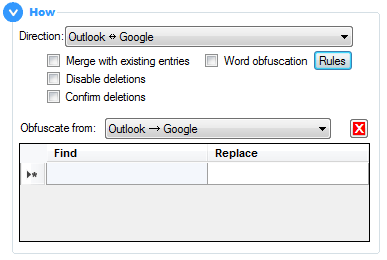
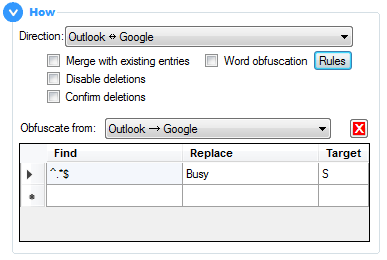
User guide updated for v2.11.0

diff --git a/guide/syncoptions.md b/guide/syncoptions.md
@@ -3,114 +3,19 @@ layout: page
 title: User Guide | Settings | Sync Options
 previous: Google
 previous-url: google
-next: Application Behaviour
-next-url: appbehaviour
+next: Sync Options - How
+next-url: syncoptions-how
 ---
 {% include navigation-buttons.html %}
 
 # Sync Options
 
-This is where you configure **[how](#how), [when](#when)** and **[what](#what)** is synced between your calendars.
+This is where you configure **[how](syncoptions-how), [when](syncoptions-when)** and **[what](syncoptions-what)** is synced between your calendars.
 
 Changes to any of the settings will take immediate effect for the next synchronisation of calendars, but they won't persist between restarting OGCS unless the `Save` button is clicked.  
-Settings can also be exported as a backup, as well as imported between OGCS instances or installations.
+By clicking the down arrow next to the `Save` button, settings can also be **exported** as a backup, as well as **imported** between OGCS instances or installations.
 
 ![Sync Option Settings Screenshot](options.png)
-
-## How
-**Direction:** One-way sync from Outlook to Google, vice versa or two-way sync between both.
-
-These next configuration items help you manage what should happen with items that OGCS wants to remove.
-
-**Merge with existing entries:** It is recommended the target calendar is either empty or a new calendar created specifically for OGCS to sync with. This will make it easier for you to identify what has been synced etc. However, if you need to sync into a calendar that contains items not present in the source calendar and <font style="color:red">you want to keep those items</font>, check this option. 
-<div class="tip" style="margin-bottom:7px">:bulb: Such a situation may arise if you wish to sync your work Outlook calendar in to the default Google calendar, in order that Alexa or Google Home can announce your schedule for the day.</div>
-
-**Disable deletions:** This option is mostly a safeguard to be used by new users of OGCS. Once you have confidence the tool is working as expected, it should most likely be switched off.  
-**Confirm deletions:** Once deletions have been permitted, if you turn this option on, each deletion will prompt you to confirm or deny if this should be allowed. Again, this is to help you gain confidence you have the right configuration and OGCS is doing what you expect. It is not intended as a setting to have enabled long term.  
-If a sync causes every single item in the target calendar to be deleted before creating new items a-new, then there is always a "bulk deletion" warning, irrespective of the above settings. This is to provide a chance to confirm this is definitely expected and intended.  
-
-Specific attributes can be overridden in the target calendar:
-<img src="options-how-more.png" alt="More Options Screenshot" align="right" />
-<ul style="margin-top:-20px; margin-left:20px">
-  <li>Set privacy as private/public</li>
-  <li>Set availability as free/busy. Also tentative/out of office if syncing to Outlook</li>
-  <li>Set colour/category</li>
-</ul>
-For two-way sync, you can choose between Outlook and Google as to which is the target calendar, as well as whether to implement the override
-<ul style="margin-top:-20px; margin-left:20px">
-  <li>For all synced items; or</li>
-  <li>Only for items newly created by the sync tool</li>
-</ul>
-This second option means that the overridden attribute(s) will not sync back to the source calendar - otherwise, for example, _everything_ would end up private which is probably not what is intended.
-
-<img src="options-how-regex.png" alt="Word Obfuscation Screenshot" align="right" />
-**Word obfuscation:** Through the use of [regular expressions](https://www.regular-expressions.info), certain letters, words or phrases in the calendar item’s subject can be altered. By clicking the `Rules` button, you will see a table with `Find` and `Replace` columns; each row of regular expression rules would be applied in the order given using AND logic.
-<div class="tip">:memo: If two-way sync is configured, the obfuscation can only work in one direction - choose which from the drop down menu.</div>
-<br/>
-
-
-## When
-
-_Specify when to run a sync._
-
-**Date Range:** Select the number of days into the past and future within which calendar items should be synced. Date ranges greater than a year into the past or future are not allowed. 
-If a recurring appointment spans the date range specified, then it will also be synced. A minor exception to this are annual recurrence patterns - these will only sync if the month of the appointment falls into a month within the sync date range.
-<div class="tip" style="padding-bottom:8px">:bulb: To optimise the sync speed, the smaller the date range the better. Try to avoid a large date range combined with a frequent sync interval.</div>
-
-**Schedule:** The number of hours or minutes between automated syncs. 
-Setting it to zero turns off automated syncs, relying upon on-demand manual synchronisations.  
-15 minutes is the minimum sync frequency allowed, unless Push Sync is _also_ enabled in which case it is 120 minutes.  
-**Push Outlook Changes Immediately:** Have OGCS detect when calendar items are changed within Outlook and sync them within 2 minutes.
-
-
-## What
-
-### Attributes
-_Specify which appointment attributes to include in the sync._
-
-With all of these settings, when turned **on** they will only sync from that point forward. To sync them for all calendar items, press and hold `Shift` while clicking the `Sync` button. When turning sync **off** data already synced will not be removed - this will need to be done manually and is to protect against loss of data should two-way sync ever be configured.
-
-<img src="options-what.png" alt="What Screenshot" align="right" />
-
-**Location:** The location of the appointment.
-
-**Description:** The body of the appointment.
-<p style="margin-left:40px; margin-top:-20px"><b>One-way to Google:</b> If two-way sync is configured, optionally only sync the description to Google. Because Google has a maximum of 8kb held in plain text, it may cause information or formatting to be lost if subsequently synced back from Google.</p>
-
-**Attendees:** Sync the meeting attendees, using their email address as their unique identifier. A default maximum of 200 attendees can be synced, or specify a lower limit.
-<div class="tip">:warning:This option is likely to trigger the Outlook security popup. If you cannot prevent this through <a href="{{ site.github-repo }}/wiki/FAQs---Outlook-Security#how-can-i-stop-it-happening">standard settings</a>, it may be best to stop syncing attendees.</div>
-
-<p style="margin-left:40px;"><b>Cloak email in Google:</b> Google has been known to <a href="{{ site.github-repo }}/wiki/FAQs#why-are-my-meeting-attendees-getting-notified-of-updates-to-events-in-google">send out unsolicited notification emails</a> to attendees. To prevent this, the default is to “cloak” the attendee’s email address by appending <code class="highlighter-rouge">.ogcs</code>, thus making any such emails undeliverable.</p>
-
-<img src="ogcs-colour.gif" alt="Demo of syncing colours" align="right" width="50%"/>
-**Colours/categories:** The Outlook category and/or Google colour can be synced, which uses an algorithm to match to the closest equivalent colour. If there are multiple categories in Outlook with the same colour, or the wrong colour is being matched, there are more fine-grained controls under the `Mapping` button.
-
-<p style="margin-left:40px; margin-top:-20px">The <code class="highlighter-rouge">Test map</code> section shows how each colour will map to the other system. The table below can be used to specify alternative mappings from the default - eg the red Outlook "My Test" category mapped to the "Banana" colour in Google.</p>
-
-<p style="margin-left:40px; margin-top:-20px"><b>Single category only:</b> Google only allows a single colour, so this would enforce only one Outlook category. If unchecked, the sync will create new categories for each synced colour, with a name prefixed by "OGCS ".</p>
-
-
-**Reminders:** Include reminders/alerts in order to be notified of upcoming meetings. 
-
-<p style="margin-left:40px; margin-top:-20px"><b>Use Google Default:</b> It is possible to configure a default reminder within a Google calendar that all items within it will inherit. Check this option to allow this behaviour to continue when the Outlook item has no reminder set or reminders are not being synced. With the option unchecked, only the Outlook reminder will sync and appear on the Google event, and if none is set in Outlook or reminders are not being synced, Google will not have a reminder either.</p>
-<p style="margin-left:40px; margin-top:-20px"><b>Use Outlook Default:</b> It is possible to configure a default reminder within Outlook settings that all items will inherit. Check this option to allow this behaviour to continue when the Google event has no reminder set or reminders are not being synced. With the option unchecked, the Google reminder with the shortice notice period will take precedence and appear on the Outlook appointment, and if none is set in Google or reminders are not being synced, Outlook will not have a reminder either.</p>
-<p style="margin-left:40px; margin-top:-20px"><b>DND between hours x and y:</b> Syncing from Outlook to Google is the most popular option, usually in order to see work commitments on an Android phone. For all-day appointments especially, this can mean an unnecessary midnight alert (thanks to the default Microsoft reminder of 15 minutes)! To avoid this, configure a “do not disturb” window in which reminders will not be synced.</p>
-
-### Exclusions
-_Specify which calendar items to exclude from the sync._
-
-<img src="options-what-exclude.png" alt="What Screenshot" align="center" />
-
-These settings operating differently according to your sync direction. When calendar items are excluded:
-* One-way: both newly created items will be not be synced _and_ previously synced will be removed.
-* Two-way: only newly created items will be not be synced to the target calendar.   
-
-If greater control is needed around what should sync, include or excluding [Outlook categories](outlook#filtering) / [Google colours](google#filtering) that are manually assigned to individual items may suit better.
-
-**Availability:** Exclude calendar items marked as _Free_ or _Tentative_. Note that Tentative is only available when syncing from Outlook.  
-**Privacy:** Exclude calendar items marked as _Private_.  
-**All-Day:** Exclude all-day calendar items, or those spanning several days from midnight to midnight. Optionally, only exclude all-day items that are marked _Free_.  
-**Subject that contains:** Exclude any items with subjects/titles that match this search string. Supports [regular expressions](https://www.regular-expressions.info).  
 
 <p>&nbsp;</p>
 {% include navigation-buttons.html %}

diff --git a/guide/syncoptions-what.md b/guide/syncoptions-what.md
@@ -1,0 +1,66 @@
+---
+layout: page
+title: User Guide | Settings | Sync Options - What
+previous: Sync Options - When
+previous-url: syncoptions-when
+next: Application Behaviour
+next-url: appbehaviour
+---
+{% include navigation-buttons.html %}
+
+# Sync Options
+
+## What Attributes
+_Specify which appointment attributes to include in the sync._
+
+<img src="options-what.png" alt="'What' Options Screenshot" align="center" />
+
+With all of these settings, when turned **on** they will only sync from that point forward. To sync them for all calendar items, press and hold `Shift` while clicking the `Sync` button, or select `Full Sync` from the button drop-down. 
+
+When turning sync **off** data already synced will not be removed - this will need to be done manually and is to protect against loss of data should two-way sync ever be configured.
+
+**Location:** The location of the appointment.
+
+**Description:** The body of the appointment.
+<p style="margin-left:40px; margin-top:-20px"><b>One-way to Google:</b> If two-way sync is configured, optionally only sync the description to Google. Because Google has a maximum of 8kb held in plain text, it may cause information or formatting to be lost if subsequently synced back from Google.</p>
+
+**Attendees:** Sync the meeting attendees, using their email address as their unique identifier. A default maximum of 200 attendees can be synced, or specify a lower limit.
+<div class="tip">:warning:This option is likely to trigger the Outlook security popup. If you cannot prevent this through <a href="{{ site.github-repo }}/wiki/FAQs---Outlook-Security#how-can-i-stop-it-happening">standard settings</a>, it may be best to stop syncing attendees.</div>
+
+<p style="margin-left:40px;"><b>Cloak email in Google:</b> Google has been known to <a href="{{ site.github-repo }}/wiki/FAQs#why-are-my-meeting-attendees-getting-notified-of-updates-to-events-in-google">send out unsolicited notification emails</a> to attendees. To prevent this, the default is to “cloak” the attendee’s email address by appending <code class="highlighter-rouge">.ogcs</code>, thus making any such emails undeliverable.</p>
+
+<a href="ogcs-colour.gif" target="_blank" alt="Click to view full size"><img src="ogcs-colour.gif" alt="Demo of syncing colours" align="right" width="50%"/></a>
+**Colours/categories:** The Outlook category and/or Google colour can be synced, which uses an algorithm to match to the closest equivalent colour. If there are multiple categories in Outlook with the same colour, or the wrong colour is being matched, there are more fine-grained controls under the `Mappings` button.
+
+<p style="margin-left:40px; margin-top:0px">The <code class="highlighter-rouge">Test map</code> section shows how each colour will map to the other system. It takes into account the table below, which can be used to specify alternative mappings from the default - eg the red Outlook "My Test" category mapped to the "Banana" colour in Google.</p>
+
+<p style="margin-left:40px; margin-top:-10px"><b>Single category only:</b> Google only allows a single colour, so this would enforce only one Outlook category. If unchecked, the sync will create new categories for each synced colour, with a name prefixed by "OGCS ".</p>
+
+
+**Reminders:** Include reminders/alerts in order to be notified of upcoming meetings. 
+
+<p style="margin-left:40px; margin-top:-20px"><b>Use Google Default:</b> It is possible to configure a default reminder within a Google calendar that all items within it will inherit. Check this option to allow this behaviour to continue when the Outlook item has no reminder set or reminders are not being synced. With the option unchecked, only the Outlook reminder will sync and appear on the Google event, and if none is set in Outlook or reminders are not being synced, Google will not have a reminder either.</p>
+
+<p style="margin-left:40px; margin-top:-10px"><b>Use Outlook Default:</b> It is possible to configure a default reminder within Outlook settings that all items will inherit. Check this option to allow this behaviour to continue when the Google event has no reminder set or reminders are not being synced. With the option unchecked, the Google reminder with the shortice notice period will take precedence and appear on the Outlook appointment, and if none is set in Google or reminders are not being synced, Outlook will not have a reminder either.</p>
+
+<p style="margin-left:40px; margin-top:-10px"><b>DND between hours x and y:</b> Syncing from Outlook to Google is the most popular option, usually in order to see work commitments on an Android phone. For all-day appointments especially, this can mean an unnecessary midnight alert (thanks to the default Microsoft reminder of 15 minutes)! To avoid this, configure a “do not disturb” window in which reminders will not be synced.</p>
+
+### Exclusions
+_Specify which calendar items to exclude from the sync._
+
+<img src="options-what-exclude.png" alt="'What Exclusions' Screenshot" align="center" />
+
+These settings operating differently according to your sync direction. When calendar items are excluded:
+* One-way: both newly created items will be not be synced _and_ previously synced will be removed.
+* Two-way: only newly created items will be not be synced to the target calendar.   
+
+If greater control is needed around what should sync, include or excluding [Outlook categories](outlook#filtering) / [Google colours](google#filtering) that are manually assigned to individual items may suit better.
+
+**Availability:** Exclude calendar items marked as _Free_ or _Tentative_. Note that Tentative is only available when syncing from Outlook.  
+**Privacy:** Exclude calendar items marked as _Private_.  
+**All-Day:** Exclude all-day calendar items, or those spanning several days from midnight to midnight. Optionally, only exclude all-day items that are marked _Free_.  
+**Subject that contains:** Exclude any items with subjects/titles that match this search string. Supports [regular expressions](https://www.regular-expressions.info).  
+
+<p>&nbsp;</p>
+{% include navigation-buttons.html %}
+<p>&nbsp;</p>

diff --git a/guide/appbehaviour.md b/guide/appbehaviour.md
@@ -1,8 +1,8 @@
 ---
 layout: page
 title: User Guide | Settings | Application Behaviour
-previous: Sync Options
-previous-url: syncoptions
+previous: Sync Options - What
+previous-url: syncoptions-what
 next: Help
 next-url: help
 ---
@@ -13,27 +13,45 @@ next-url: help
 ![Application Behaviour Settings Screenshot](options-appbehaviour.png)
 
 **Start on login:** Set OGCS to start up when you log in to Windows. 
-<p style="margin-left:40px;margin-top:-20px"><b>Delay:</b> On system’s that take a little while to get started, OGCS can encounter problems if it starts too quickly - especially if Outlook is also set to start on startup. If OGCS only seems to have problems on system startup, try setting a delay.</p>
-<p style="margin-left:40px;margin-top:-20px"><b>For all users:</b> Configure OGCS to start, with optional delay, for an user that logs in to Windows.</p>
+<p style="margin-left:40px;margin-top:-20px"><b>Delay:</b> On system’s that take a little while to get started, OGCS can encounter problems if it starts too quickly - especially if Outlook is also set to start on startup. If OGCS only seems to have problems on system startup, or security pop-ups appear due to anti-virus definitions not yet updating, try setting a delay.</p>
+
+<p style="margin-left:40px;margin-top:-10px"><b>For all users:</b> Configure OGCS to start, with optional delay, for an user that logs in to Windows.</p>
 
 **Hide splash screen:** If you have donated £10 or more, you have the option of stopping the startup splash screen from displaying. Optionally, also to suppress any prompts to spread the word on social media.  
+
 **Start in tray:** Instead of showing the application window on startup, set it to only display in the Windows notification tray are  a. From here you can control the syncs or show the application by right clicking the icon.  
+
 **Minimise to tray:** By default, OGCS will have an application icon in the main taskbar area. This option will make it only display an icon in the notification area instead.  
+
 <img src="options-appbehaviour-close.png" align="right" width="60%"/>
 **Close button minimises:** Prevent the application from closing when clicking on the standard top right “close” button. Instead it will simply minimise.   
-**Show bubble tooltip in tray when syncing:** Get notifications when a sync begins and a summary of the changes on completion.  
+
+**Show system notifications in tray when syncing:** Get notifications when a sync begins and a summary of the changes on completion. Additionally, only show the notification **if changes are found**.  
+
 **Make application portable:** Only available, but enabled by default, if the portable ZIP application is being used.  
 
 ### Logging
+
 **Logging level:** Set the level of detail captured in the log file. From `OFF` through to `ALL`, with `DEBUG` being the default. Ensure it is set to `DEBUG` or greater if attaching it to a [GitHub Issue]({{ site.github-repo }}/issues).  
+
 **Feedback errors to help improve OGCS:** If you are unfortunate enough to encounter an error, there is the option to automatically report this and future errors back to the developer - which helps them proactively identify problems and fix them!  
+
+**Anonymise calendar subjects:** Logging includes the calendar subjects (which does make understanding the logs a lot easier!), but for the security concious these can be anonymised.
+
 **Disable telemetry:** By default the software reports basic anonymised data, such as version of OGCS and Outlook being used.  
+
 **Create CSV files of calendar entries:** This can be turned on to aid investigation of a possible problem, usually under instruction having raised a [GitHub Issue]({{ site.github-repo }}/issues).  
 
 ## Proxy Settings
+
 **No Proxy:** When there is a direct connection to the internet, for example, using home broadband.  
-**Inherit from Internet Explorer:** Use the same settings as configured in Internet Explorer. Normally the best option if connecting through a corporate proxy, or use a PAC file etc.  
+
+**Inherit from Internet Explorer:** Use the same settings as configured in Internet Explorer. Normally the best option if connecting 
+through a corporate proxy, or use a PAC file etc.  
+
 **Custom Settings:** Manually enter the proxy server and port, plus your proxy credentials if required.
+
+**Browser Agent:** How the application identifies itself to proxies. Some proxies may block certain agents, or older browser versions - in this situation, click `Check` and then `Copy agent text` with the detected browser information back into the OGCS settings.
 
 
 <p>&nbsp;</p>

diff --git a/guide/syncoptions-how.md b/guide/syncoptions-how.md
@@ -1,0 +1,66 @@
+---
+layout: page
+title: User Guide | Settings | Sync Options - How
+previous: Sync Options
+previous-url: syncoptions
+next: Sync Options - When
+next-url: syncoptions-when
+---
+{% include navigation-buttons.html %}
+
+# Sync Options
+
+## How
+
+<img src="options-how-more.png" alt="More Options Screenshot" align="center" />
+
+**Direction:** One-way sync from Outlook to Google, vice versa or two-way sync between both.
+
+These next configuration items help you manage what should happen with items that OGCS wants to remove.
+
+**Merge with existing entries:** It is recommended the target calendar is either empty or a new calendar created specifically for OGCS to sync with. This will make it easier for you to identify what has been synced etc. However, if you need to sync into a calendar that contains items not present in the source calendar and <font style="color:red">you want to keep those items</font>, check this option. 
+<div class="tip" style="margin-bottom:7px">:bulb: Such a situation may arise if you wish to sync your work Outlook calendar in to the default Google calendar, in order that Alexa or Google Home can announce your schedule for the day.</div>
+
+**Disable deletions:** This option is mostly a safeguard to be used by new users of OGCS. Once you have confidence the tool is working as expected, it should most likely be switched off.  
+
+**Confirm deletions:** Once deletions have been permitted, if you turn this option on, each deletion will prompt you to confirm or deny if this should be allowed. Again, this is to help you gain confidence you have the right configuration and OGCS is doing what you expect. It is not intended as a setting to have enabled long term.  
+If a sync causes every single item in the target calendar to be deleted before creating new items a-new, then there is always a "bulk deletion" warning, irrespective of the above settings. This is to provide a chance to confirm this is definitely expected and intended.  
+
+Specific attributes can be overridden in the target calendar:
+<ul style="margin-top:-20px; margin-left:20px">
+  <li>Set privacy as private/public</li>
+  <li>Set availability as free/busy. Also tentative/out of office if syncing to Outlook</li>
+  <li>Set colour/category</li>
+</ul>
+
+For two-way sync, you can choose between Outlook and Google as to which is the target calendar, as well as whether to implement the override
+<ul style="margin-top:-20px; margin-left:20px">
+  <li>For all synced items; or</li>
+  <li>Only for items newly created by the sync tool</li>
+</ul>
+
+This second option means that the overridden attribute(s) will not sync back to the source calendar - otherwise, for example, _everything_ would end up private which is probably not what is intended.
+
+**Word obfuscation:** Through the use of [regular expressions](https://www.regular-expressions.info), certain letters, words or phrases in the calendar item’s subject can be altered. 
+
+<img src="options-how-regex.png" alt="Word Obfuscation Screenshot" align="right" />
+By clicking the `Rules` button, you will see a table with `Find`, `Replace` and `Target` columns; each row of regular expression rules would be applied in the order given using AND logic.
+
+The example in the image shows the entire subject text (denoted by the expression `^.*$`) being replaced with the single word "Busy".
+
+The target column indicates which attribute(s) the regular expression should be applied - it can be any combination of:-
+<ul style="margin-top:-20px; margin-left:20px">  
+<li><code>S</code>ubject</li>
+<li><code>L</code>ocation</li>
+<li><code>D</code>escription</li>
+</ul>
+
+To apply to all attributes, for example, enter `SLD`. The default is `S` to obfuscate the subject text only.
+
+<div class="tip">:memo: If two-way sync is configured, the obfuscation can only work in one direction - choose which from the drop down menu.</div>
+<br/>
+
+<p>&nbsp;</p>
+{% include navigation-buttons.html %}
+<p>&nbsp;</p>
+

diff --git a/guide/syncoptions-when.md b/guide/syncoptions-when.md
@@ -1,0 +1,35 @@
+---
+layout: page
+title: User Guide | Settings | Sync Options - When
+previous: Sync Options - How
+previous-url: syncoptions-how
+next: Sync Options - What
+next-url: syncoptions-what
+---
+{% include navigation-buttons.html %}
+
+# Sync Options
+
+## When
+
+_Specify when to run a sync._
+
+<img src="options-when.png" alt="'When' Options Screenshot" align="center" />
+
+**Date Range:** Select the number of days into the past and future within which calendar items should be synced. Date ranges greater than a year into the past or future are not allowed. 
+
+If a recurring appointment spans the date range specified, then it will also be synced, although only _exceptions_ to the series that fall within the date range will be updated. A minor divergence to this are annual recurrence patterns - these will only sync if the month of the appointment falls into a month within the sync date range.
+
+<div class="tip" style="padding-bottom:8px">:bulb: To optimise the sync speed, the smaller the date range the better. Try to avoid a large date range combined with a frequent sync interval.</div>
+<br/>
+
+**Schedule:** The number of hours or minutes between automated syncs. 
+Setting it to zero turns off automated syncs, relying upon on-demand manual synchronisations.  
+15 minutes is the minimum sync frequency allowed, unless Push Sync is _also_ enabled in which case it is 120 minutes.  
+
+**Push Outlook Changes Immediately:** Have OGCS detect when calendar items are changed within Outlook and sync them within 2 minutes.
+
+
+<p>&nbsp;</p>
+{% include navigation-buttons.html %}
+<p>&nbsp;</p>

diff --git a/guide/install.md b/guide/install.md
@@ -22,7 +22,7 @@ In terms of functionality, both versions are the same, but here's a quick compar
 
 |  | Installed | Portable |
 | :--- | :--- | :--- |
-| Set Up | Download the `Setup.exe` file, double-click it to execute, and OGCS will start. | Download the `Portable ZIP` file and then extract the compressed files to a location of your choosing. Double-click the `OutlookGoogleCalendarSync.exe` executable file to start OGCS. |
+| Set Up | Download the `OGCS_Setup.exe` file, double-click it to execute, and OGCS will start. | Download the `Portable ZIP` file and then extract the compressed files to a location of your choosing. Double-click the `OutlookGoogleCalendarSync.exe` executable file to start OGCS. |
 | Application Location | The local `APPDATA` folder for the user. | Anywhere, possibly a USB drive. |
 | Upgrading OGCS | Simply accept the upgrade prompt when a newer version is detected. | The newer ZIP file will need manually downloading, either to replace the existing location of OGCS, or a new location. |
 | OS Permissions Required | None. | None. |

diff --git a/guide/settings.md b/guide/settings.md
@@ -18,7 +18,7 @@ Remember the settings do not automatically save and will only persist through a 
 
 ![Profiles Screenshot](profiles.png)
 
-All of the configuration under the `Sync Settings` tab is assigned to a _Profile_. To sync more than one calendar, each should be configured in their own _Profile_. Each _Profile_ also has its own [schedule](https://www.outlookgooglecalendarsync.com/guide/syncoptions#when) that needs setting for it to be automatically synced.
+All of the configuration under the `Sync Settings` tab is assigned to a _Profile_. To sync more than one calendar, each should be configured in their own _Profile_. Each _Profile_ also has its own [schedule](syncoptions-when) that needs setting for it to be automatically synced.
 
 <p>&nbsp;</p>
 {% include navigation-buttons.html %}

diff --git a/guide/index.md b/guide/index.md
@@ -27,6 +27,9 @@ Each of the screens is explained in detail.
   * [Outlook](outlook)
   * [Google](google)
   * [Sync Options](syncoptions)
+     * [How](syncoptions-how)
+     * [When](syncoptions-when)
+     * [What](syncoptions-what)
   * [Application Behaviour](appbehaviour)
 * [Help](help)
 * [About](about)
